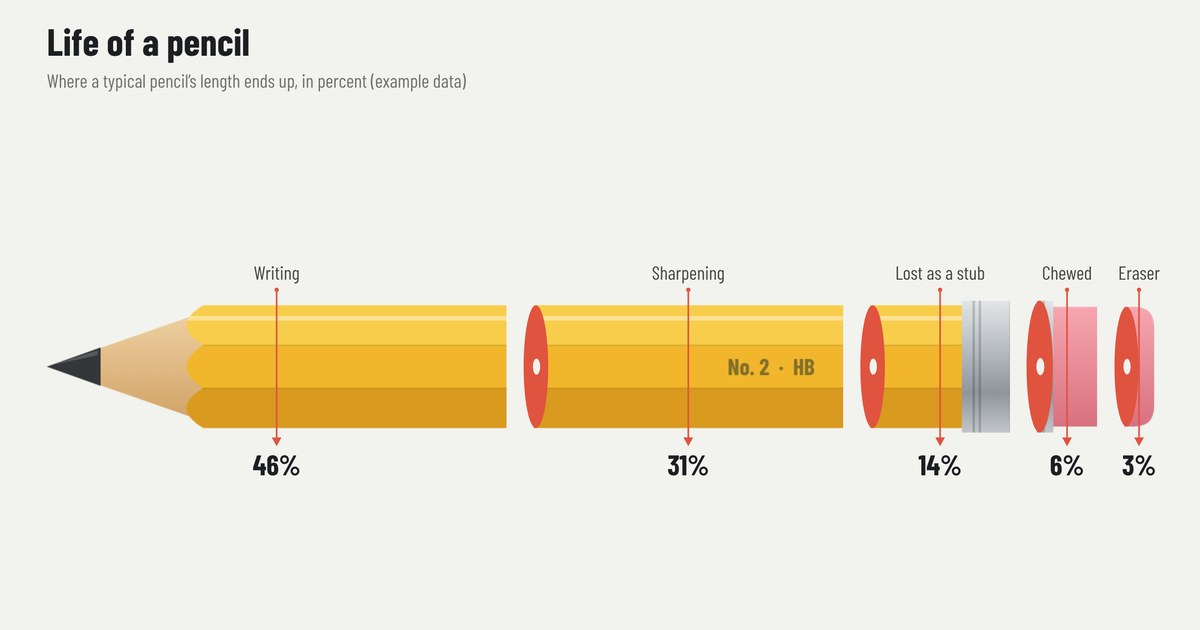
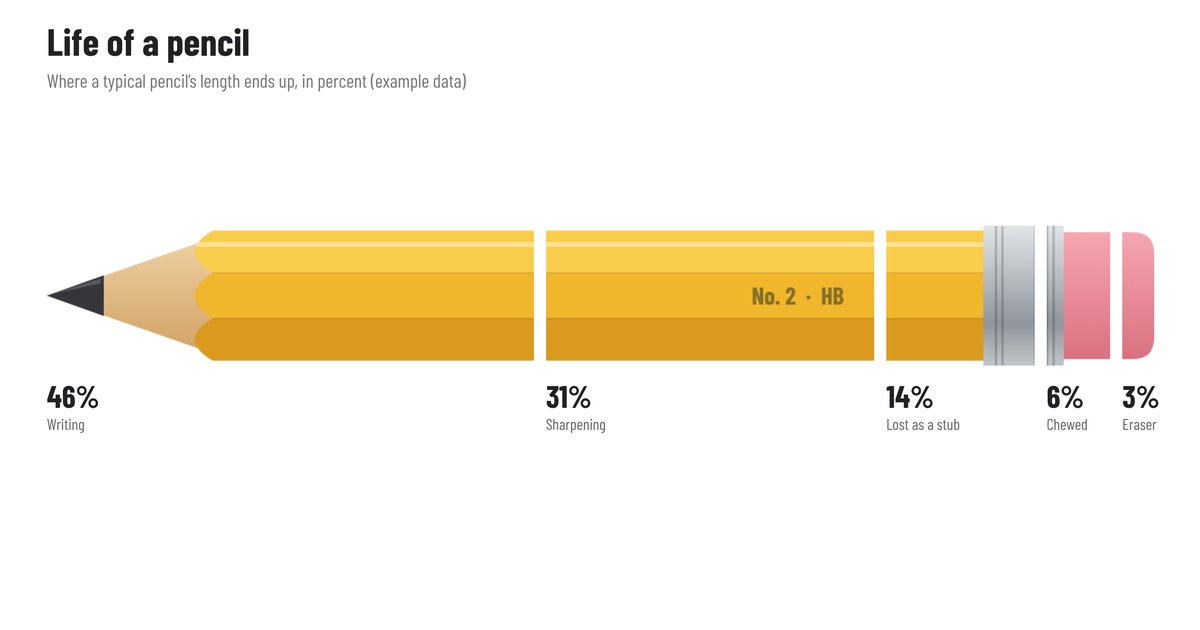
Cutaway: white app background, white paper and Strip by default
Claude-Session: https://claude.ai/code/session_01H5hiJr29LvWF8pMnF87rsM

Changed region(s): [[0.0308, 0.3619, 0.9867, 0.754]]

diff --git a/public/tools/cutaway/index.html b/public/tools/cutaway/index.html
@@ -6,7 +6,7 @@
 <style>:root{color-scheme:light;padding-top:env(safe-area-inset-top,0px);padding-bottom:env(safe-area-inset-bottom,0px);box-sizing:border-box}body{margin:0;font:14px system-ui,-apple-system,"Segoe UI",sans-serif}img{max-width:100%}[hidden]{display:none!important}</style>
 <title>Cutaway</title>
 <meta name="description" content="Turn a photo into a chart: slice it, stack it, or cut it into a pie, bars or a waveform from your own numbers.">
-<meta name="theme-color" content="#e2e3df">
+<meta name="theme-color" content="#ffffff">
 <meta property="og:type" content="website">
 <meta property="og:title" content="Cutaway">
 <meta property="og:description" content="Turn a photo into a chart: slice it, stack it, or cut it into a pie, bars or a waveform.">
@@ -19,7 +19,7 @@
 <style>
 /* Layout: the artboard sits on a plain neutral stage; one tool rail below it; every fine control lives in a sheet a tap away */
 :root{
-  --mat:#e2e3df;
+  --mat:#ffffff;
   --mat-minor:rgba(255,255,255,.07);
   --mat-major:rgba(255,255,255,.14);
   --surface:#f4f5f2;
@@ -43,7 +43,7 @@
 }
 @media (prefers-color-scheme: dark){
   :root:not([data-theme="light"]){
-    --mat:#0e1110; --mat-minor:rgba(255,255,255,.05); --mat-major:rgba(255,255,255,.1);
+    --mat:#ffffff; --mat-minor:rgba(255,255,255,.05); --mat-major:rgba(255,255,255,.1);
     --surface:#151817; --raise:#1e2221; --line:#2c3230; --text:#e8ebe8; --muted:#95a09a;
     --seg:#262b29; --accent:#ef6955; --on-accent:#1a0f0c; --shadow:rgba(0,0,0,.5);
     --track:#252a28; --fill:#3a403e; --fill-edge:#454c49; --ok:#38b25c; --on-ok:#ffffff; --btn-dark:#e8ebe8; --on-dark:#151817;
@@ -51,7 +51,7 @@
   }
 }
 :root[data-theme="dark"]{
-  --mat:#0e1110; --mat-minor:rgba(255,255,255,.05); --mat-major:rgba(255,255,255,.1);
+  --mat:#ffffff; --mat-minor:rgba(255,255,255,.05); --mat-major:rgba(255,255,255,.1);
   --surface:#151817; --raise:#1e2221; --line:#2c3230; --text:#e8ebe8; --muted:#95a09a;
   --seg:#262b29; --accent:#ef6955; --on-accent:#1a0f0c; --shadow:rgba(0,0,0,.5);
   --track:#252a28; --fill:#3a403e; --fill-edge:#454c49; --ok:#38b25c; --on-ok:#ffffff; --btn-dark:#e8ebe8; --on-dark:#151817;
@@ -209,8 +209,8 @@ input[type=color].sw::-moz-color-swatch{border:none;border-radius:50%}
 <aside class="sheet" id="sheet" hidden>
   <div class="sheet-head">
     <div class="seg" role="group" aria-label="Chart style">
-      <button data-mode="slice" aria-pressed="true">Slice</button>
-      <button data-mode="strip" aria-pressed="false">Strip</button>
+      <button data-mode="slice" aria-pressed="false">Slice</button>
+      <button data-mode="strip" aria-pressed="true">Strip</button>
       <button data-mode="bars" aria-pressed="false">Bars</button>
       <button data-mode="portion" aria-pressed="false">Portion</button>
       <button data-mode="pie" aria-pressed="false">Pie</button>
@@ -275,9 +275,9 @@ input[type=color].sw::-moz-color-swatch{border:none;border-radius:50%}
 <script>
 (() => {
 'use strict';
-const KEY = 'cutaway.v1', IMGKEY = 'cutaway.v1.image';
+const KEY = 'cutaway.v2', IMGKEY = 'cutaway.v2.image';
 const DEFAULTS = {
-  mode: 'slice',
+  mode: 'strip',
   title: 'Life of a pencil',
   subtitle: 'Where a typical pencil’s length ends up, in percent (example data)',
   source: 'Source: example data',
@@ -293,7 +293,7 @@ const DEFAULTS = {
   s: { cutout: true, tol: 30, format: 'auto', order: 'none', gap: 40, explode: 22, turn: 0,
        dir: 'vertical', fill: 'stretch', barFit: 'scale', unit: '', waveStyle: 'stretch', amp: 2.4, ends: 14, seed: 7,
        font: 'condensed', textScale: 1, showTitle: true, showSource: false,
-       paper: '#f2f2ee', ink: '#1d1e21', accent: '#e0533f', faces: true, guides: true, ghost: 'gray' }
+       paper: '#ffffff', ink: '#202124', accent: '#e0533f', faces: true, guides: true, ghost: 'gray' }
 };
 const PAPERS = [['#f2f2ee','#1d1e21'],['#ffffff','#202124'],['#e6e4dd','#2a2722'],['#1f2226','#eceae4'],['#0f2b3a','#e9f0f2']];
 const ACCENTS = ['#e0533f','#6cbf5c','#2f6fd6','#e3a41b'];
@@ -343,7 +343,7 @@ function load() {
     st.isSample = typeof saved.isSample === 'boolean' ? saved.isSample : JSON.stringify(st.items) === JSON.stringify(DEFAULTS.items);
     st.s = Object.assign(clone(DEFAULTS.s), saved.s || {});
   }
-  if (!AUTO[st.mode]) st.mode = 'slice';
+  if (!AUTO[st.mode]) st.mode = 'strip';
   return st;
 }
 let S = load();
